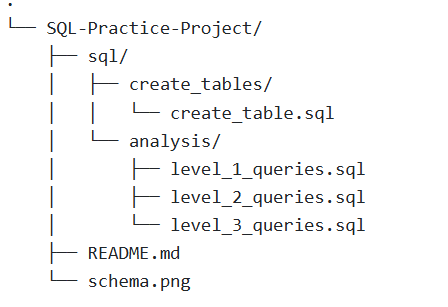
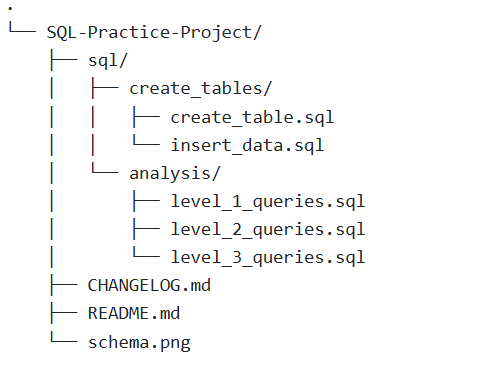
Add insert_data.sql + add CHANGELOG.md + update README.md

Changed region(s): [[0.0938, 0.0586, 0.8125, 0.9674], [0.0, 0.0586, 0.0625, 0.1173], [0.0, 0.0, 0.0312, 0.0293]]

diff --git a/CHANGELOG.md b/CHANGELOG.md
@@ -1,0 +1,24 @@
+# 📌 CHANGELOG
+
+Tổng hợp các thay đổi trong quá trình phát triển project SQL E-commerce Data
+
+---
+
+## [v1.2.0] - 2025-07-05
+### Added
+- Thêm câu hỏi nâng cao về RANK(), MoM Growth, và Customer Lifetime Value
+- Cập nhật README với ERD vẽ từ dbdiagram.io
+
+---
+
+## [v1.1.0] - 2025-07-03
+### Added
+- Level 3 Queries: Xếp hạng danh mục, tăng trưởng tháng, đơn hàng gần nhất
+- Tạo file insert_data.sql chứa dữ liệu mẫu cho PostgreSQL
+
+---
+
+## [v1.0.0] - 2025-07-01
+### Added
+- Tạo schema 6 bảng: customers, orders, order_items, products, categories, payments
+- Viết xong Level 1 và Level 2 SQL Query
